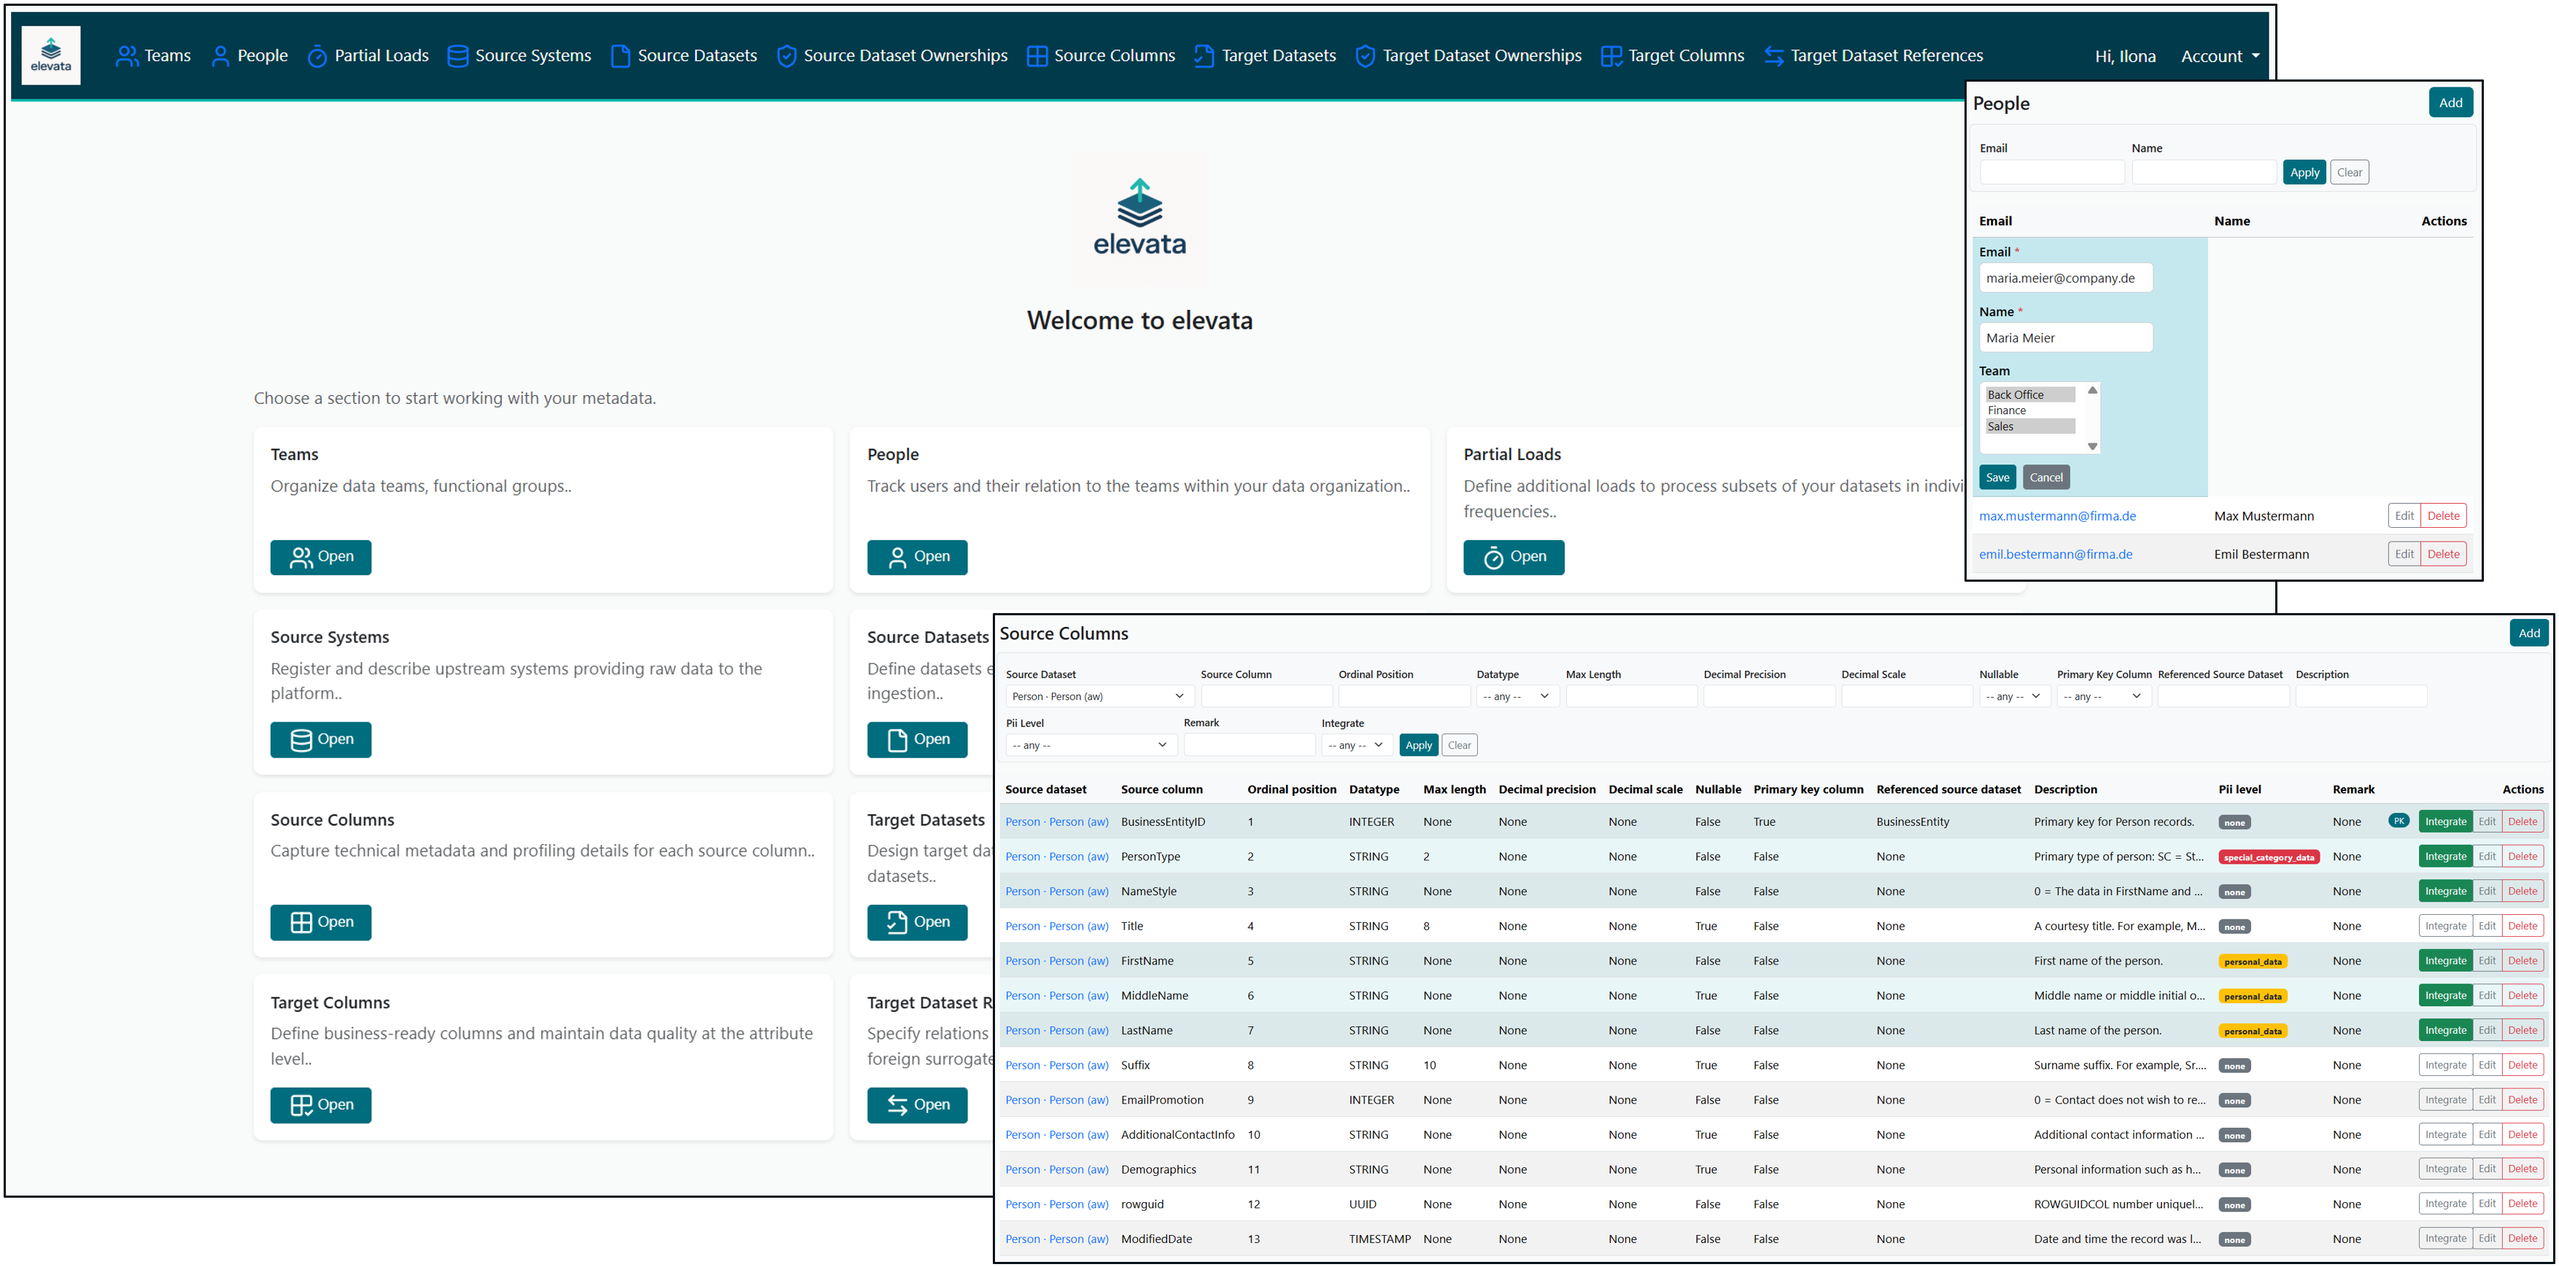
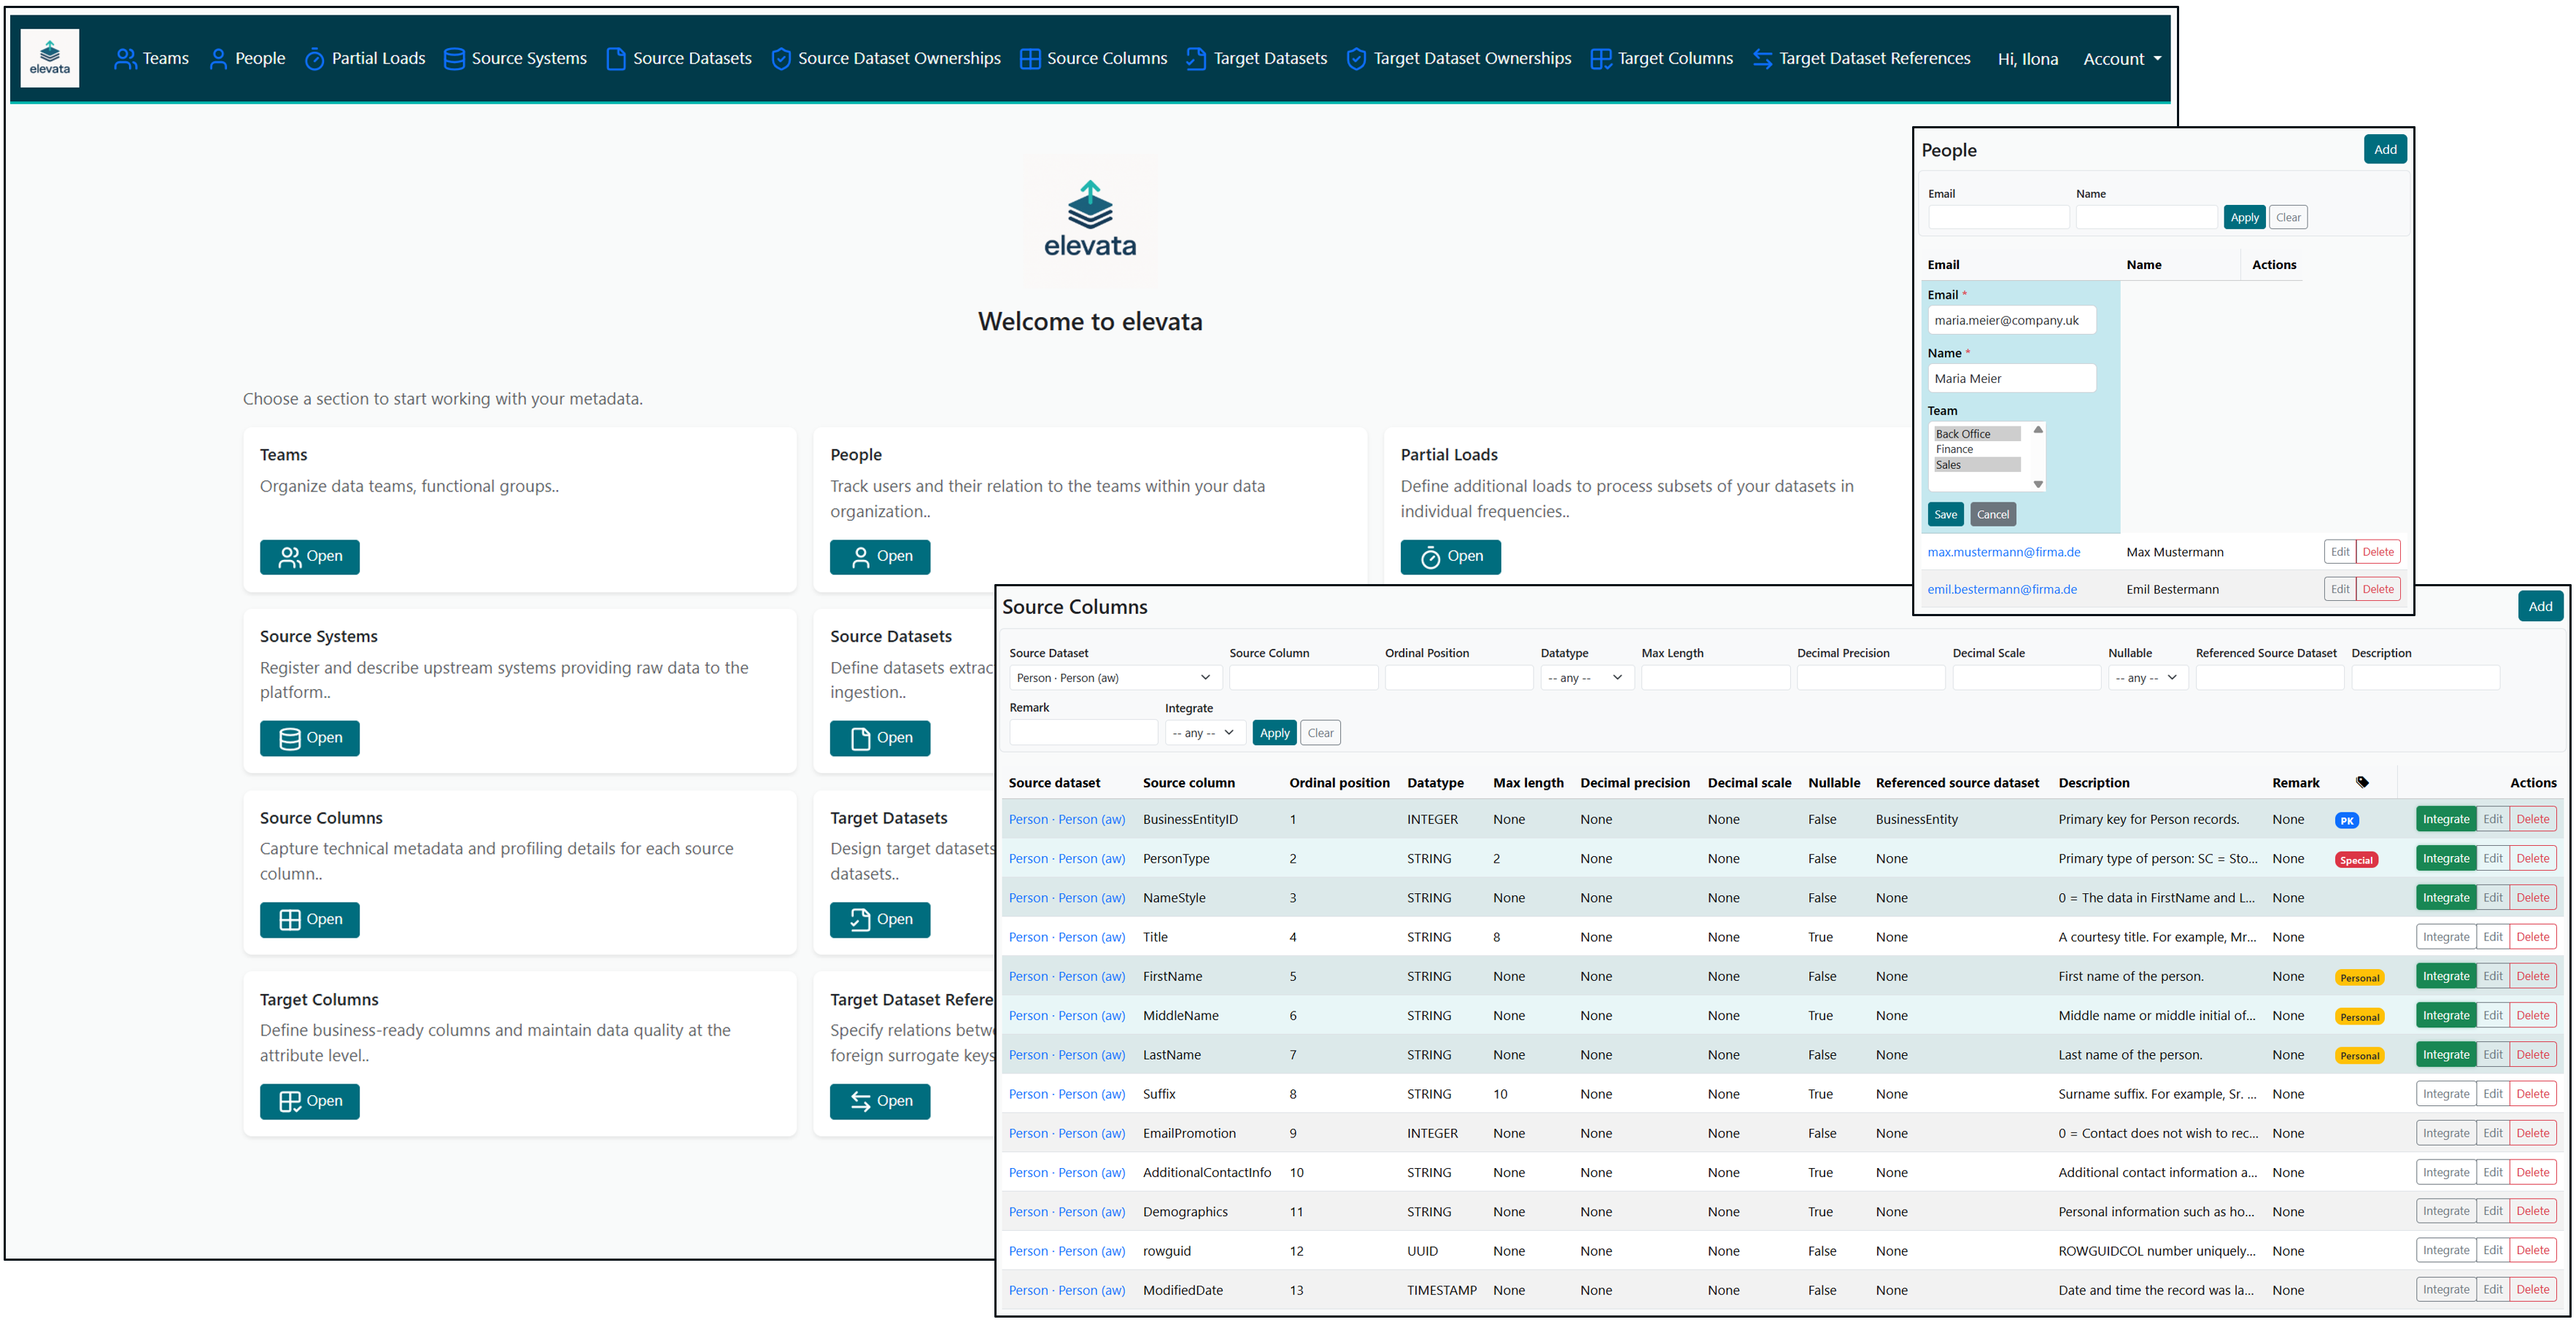
Add governance badges (PII level, PK) and unified badge styling to generic CRUD UI

diff --git a/core/templates/generic/row.html b/core/templates/generic/row.html
@@ -57,48 +57,45 @@ Contact: <https://github.com/elevata-labs/elevata>.
         <td class="truncate">{{ object|attr:f.name }}</td>
 
       {% else %}
-        {# generic badge logic per field #}
-        {% with field_badge_map=model_badges|get:f.name %}
-          {% if field_badge_map %}
-            {% with raw_val=object|attr:f.name %}
-              {% with badge_class=field_badge_map|get:raw_val %}
-                {% if badge_class %}
-                  <td>
-                    <span class="badge {{ badge_class|cut:'badge ' }}">{{ raw_val }}</span>
-                  </td>
-                {% else %}
-                  {% with default_class=field_badge_map|get:"default" %}
-                    {% if default_class %}
-                      <td>
-                        <span class="{{ default_class }}">{{ raw_val }}</span>
-                      </td>
-                    {% else %}
-                      <td>{{ raw_val }}</td>
-                    {% endif %}
-                  {% endwith %}
-                {% endif %}
-              {% endwith %}
-            {% endwith %}
-          {% else %}
-            <td>{{ object|attr:f.name }}</td>
-          {% endif %}
-        {% endwith %}
+        <td>{{ object|attr:f.name }}</td>
       {% endif %}
 
     {% endfor %}
   {% endwith %}
 
+  {# --- Badges column (pii_level, PK etc.) --- #}
+  <td class="text-nowrap">
+    {% with model_badges=BADGE_CLASSES|get:model_class_name %}
+      {% if model_badges %}
+        {% for badge in model_badges %}
+          {% with field_name=badge|get:"field" %}
+            {% with raw_val=object|attr:field_name %}
+              {% with raw_val_s=raw_val|stringformat:"s" %}
+                {% with class_map=badge|get:"class_map" label_map=badge|get:"label_map" %}
+                  {% with bc_exact=class_map|get:raw_val_s bc_fallback=class_map|get:"default" %}
+                    {% with bl_exact=label_map|get:raw_val_s bl_fallback=label_map|get:"default" %}
+                      {% if bc_exact and bl_exact %}
+                        <span class="{{ bc_exact }} me-1">{{ bl_exact }}</span>
+                      {% elif bc_exact and bl_fallback %}
+                        <span class="{{ bc_exact }} me-1">{{ bl_fallback }}</span>
+                      {% elif bc_fallback and bl_exact %}
+                        <span class="{{ bc_fallback }} me-1">{{ bl_exact }}</span>
+                      {% elif bc_fallback and bl_fallback %}
+                        <span class="{{ bc_fallback }} me-1">{{ bl_fallback }}</span>
+                      {% endif %}
+                    {% endwith %}
+                  {% endwith %}
+                {% endwith %}
+              {% endwith %}
+            {% endwith %}
+          {% endwith %}
+        {% endfor %}
+      {% endif %}
+    {% endwith %}
+  </td>
+
   {# --- Actions column --- #}
   <td class="text-end">
-
-    {# PK badge only for SourceColumn #}
-    {% if model_name == 'sourcecolumn' %}
-      <span class="ec-badges">
-        {% if object.primary_key_column %}
-          <span class="ec-chip ec-chip--pk" title="Primary key">PK</span>
-        {% endif %}
-      </span>
-    {% endif %}
 
     <span class="ec-actions">
       <div class="btn-group btn-group-sm" role="group">

diff --git a/core/static/css/elevata-theme.css b/core/static/css/elevata-theme.css
@@ -400,3 +400,78 @@ td .btn-group{ flex: none; }
   background-color: #f8f9fa;
   z-index: 2;
 }
+
+/* elevata Governance UI Styling for PII / PK / Integration badges */
+
+/* Base badge reset */
+.badge {
+  font-size: 0.75rem;
+  font-weight: 600;
+  letter-spacing: 0.01em;
+  border-radius: 0.5rem;
+  padding: 0.35em 0.55em;
+  vertical-align: middle;
+}
+
+/* Governance column icon (bi-tags) */
+th i.bi-tags {
+  color: var(--bs-secondary-color);
+  font-size: 1rem;
+  opacity: 0.8;
+  transition: all 0.2s ease-in-out;
+}
+th i.bi-tags:hover {
+  opacity: 1;
+  color: var(--bs-primary);
+}
+
+/* PII badges hierarchy */
+.badge-pii-high {
+  background-color: var(--bs-danger);
+  color: #fff;
+}
+.badge-pii-medium {
+  background-color: var(--bs-warning);
+  color: #212529;
+}
+.badge-pii-low {
+  background-color: var(--bs-info);
+  color: #212529;
+}
+.badge-pii-none {
+  background-color: var(--bs-secondary);
+  color: #fff;
+}
+
+/* PK (Primary Key) badge */
+.badge-pk {
+  background-color: var(--bs-primary);
+  color: #fff;
+  font-weight: 700;
+  letter-spacing: 0.03em;
+}
+
+/* Integration toggle active state */
+.btn-success.text-white {
+  box-shadow: 0 0 0.25rem rgba(25, 135, 84, 0.4);
+}
+
+/* Optional hover feedback for toggles */
+.btn-outline-secondary:hover {
+  background-color: var(--bs-primary-bg-subtle);
+  color: var(--bs-primary-text);
+}
+
+/* Compact badge spacing in cell */
+td .badge {
+  margin-right: 0.25rem;
+}
+
+/* Optional: subtle divider line above Actions column */
+th.text-end {
+  border-left: 1px solid var(--bs-border-color);
+}
+
+td .badge + .badge {
+  margin-left: 0.2rem;
+}

diff --git a/core/templates/base.html b/core/templates/base.html
@@ -10,7 +10,8 @@ SPDX-License-Identifier: AGPL-3.0-only
     <meta charset="utf-8">
     <title>{% block title %}elevata{% endblock %}</title>
     <meta name="viewport" content="width=device-width, initial-scale=1">
-    <link href="https://cdn.jsdelivr.net/npm/bootstrap@5.3.3/dist/css/bootstrap.min.css" rel="stylesheet">
+    <link rel="stylesheet" href="https://cdn.jsdelivr.net/npm/bootstrap@5.3.3/dist/css/bootstrap.min.css">
+    <link rel="stylesheet" href="https://cdn.jsdelivr.net/npm/bootstrap-icons@1.11.3/font/bootstrap-icons.min.css">
     <link rel="stylesheet" href="{% static 'css/elevata-theme.css' %}">
     <!-- HTMX for inline edit/create -->
   </head>

diff --git a/core/templates/generic/list.html b/core/templates/generic/list.html
@@ -121,6 +121,16 @@ Contact: <https://github.com/elevata-labs/elevata>.
           {% for f in fields %}
             <th scope="col">{{ f.verbose_name|capfirst }}</th>
           {% endfor %}
+
+          {# --- header for badges --- #}
+          {% with model_badges=BADGE_CLASSES|get:model_class_name %}
+            {% if model_badges %}
+              <th scope="col" class="text-center" title="Governance attributes">
+                <i class="bi bi-tags-fill"></i>
+              </th>
+            {% endif %}
+          {% endwith %}
+
           <th scope="col" class="text-end">Actions</th>
         </tr>
       </thead>

diff --git a/core/generic.py b/core/generic.py
@@ -135,16 +135,41 @@ class GenericCRUDView(LoginRequiredMixin, View):
 
   def get_list_fields(self):
     """
-    Return model fields for list/grid view, excluding:
-    - auto_created / m2m / non-concrete fields
-    - anything in self.list_exclude
-    - toggle-only fields (those will be rendered as buttons in the action column)
-    """
-    fields = []
-    toggle_field_names = self.get_toggle_field_names()
+    Return the model fields that should appear as columns in the grid.
 
+    Rules:
+    - skip auto_created, m2m, non-concrete
+    - skip anything in self.list_exclude
+    - skip toggle fields (they render as buttons in the Actions column)
+    - skip badge fields (they render as badges in the Actions column)
+    """
+
+    meta_cfg = getattr(settings, "ELEVATA_CRUD", {}).get("metadata", {})
+
+    # 1. collect toggle fields for this model
+    toggle_cfg_all = meta_cfg.get("list_toggle_fields", {})
+    toggle_field_names = set()
+    model_toggle_cfg = toggle_cfg_all.get(self.model.__name__)
+    if model_toggle_cfg:
+      for entry in model_toggle_cfg:
+        field_name = entry.get("field")
+        if field_name:
+          toggle_field_names.add(field_name)
+
+    # 2. collect badge fields for this model
+    badge_cfg_all = meta_cfg.get("badges", {})
+    badge_field_names = set()
+    model_badge_cfg = badge_cfg_all.get(self.model.__name__)
+    if model_badge_cfg:
+      # new structure: list of dicts, each has "field": "<fieldname>"
+      for entry in model_badge_cfg:
+        field_name = entry.get("field")
+        if field_name:
+          badge_field_names.add(field_name)
+
+    fields = []
     for f in self.model._meta.get_fields():
-      # Skip non-real fields
+      # skip django internals
       if getattr(f, "many_to_many", False):
         continue
       if getattr(f, "auto_created", False):
@@ -152,12 +177,16 @@ class GenericCRUDView(LoginRequiredMixin, View):
       if not getattr(f, "concrete", True):
         continue
 
-      # Skip anything explicitly excluded
+      # explicit per-view excludes, if you use that
       if f.name in getattr(self, "list_exclude", []):
         continue
 
-      # Skip toggle fields (we'll show them via buttons instead of as columns)
+      # skip toggle fields (we render buttons instead)
       if f.name in toggle_field_names:
+        continue
+
+      # skip badge fields (we render badges instead)
+      if f.name in badge_field_names:
         continue
 
       fields.append(f)

diff --git a/core/elevata_site/settings.py b/core/elevata_site/settings.py
@@ -226,15 +226,37 @@ ELEVATA_CRUD = {
       ],
     },
     "badges": {
-      "SourceColumn": {
-        "pii_level": {
-          "special_category_data": "badge bg-danger text-light",
-          "personal_data": "badge bg-warning text-dark",
-          "none": "badge bg-secondary text-light",
-          "default": "badge bg-secondary text-light",
-        }
-      }
-    }
+      "SourceColumn": [
+        {
+          "field": "primary_key_column", 
+          "class_map": {
+            "True": "badge badge-pk",
+            "False": "",
+            "default": "",
+          },
+          "label_map": {
+            "True": "PK",
+            "False": "",
+            "default": "",
+          },
+        },
+        {
+          "field": "pii_level",
+          "class_map": {
+            "special_category_data": "badge badge-pii-high",
+            "personal_data": "badge badge-pii-medium",
+            "none": "badge badge-pii-none",
+            "default": "badge badge-pii-none",
+          },
+          "label_map": {
+            "special_category_data": "Special",
+            "personal_data": "Personal",
+            "none": "",
+            "default": "",
+          },
+        },
+      ],
+    },
   }
 }
 
